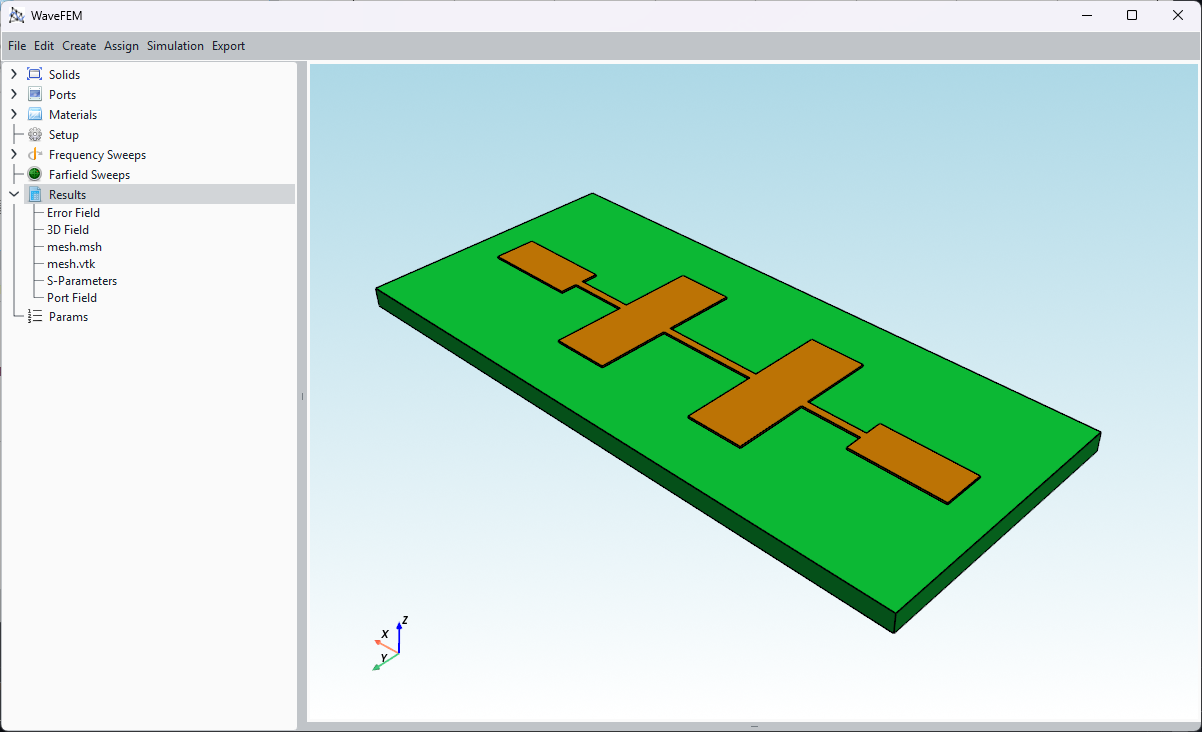
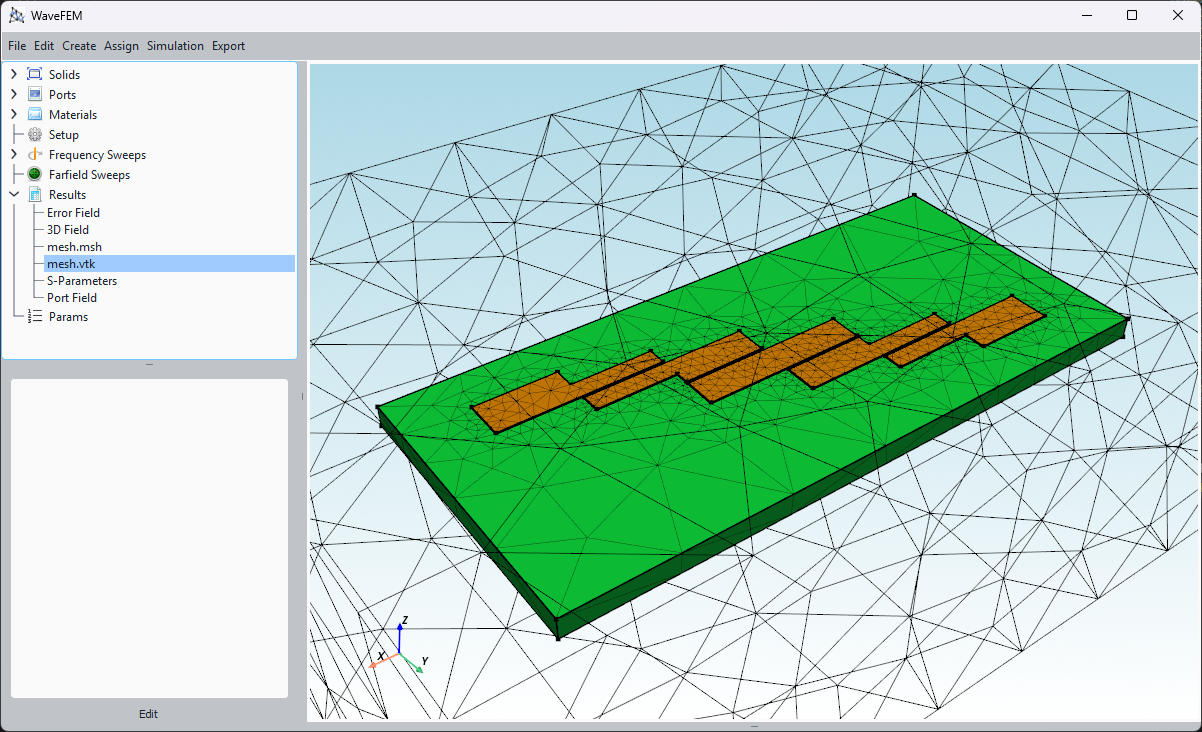
AMR pic

diff --git a/scripts.js b/scripts.js
@@ -16,8 +16,8 @@ const images = [
     },
     {
         src: "assets/gui4.png",
-        title: "Support for PCB Importing",
-        alt: "Support for PCB Importing"
+        title: "Automatic Adaptive Meshing",
+        alt: "Automatic Adaptive Meshing"
     },
     {
         src: "assets/gui5.png",
